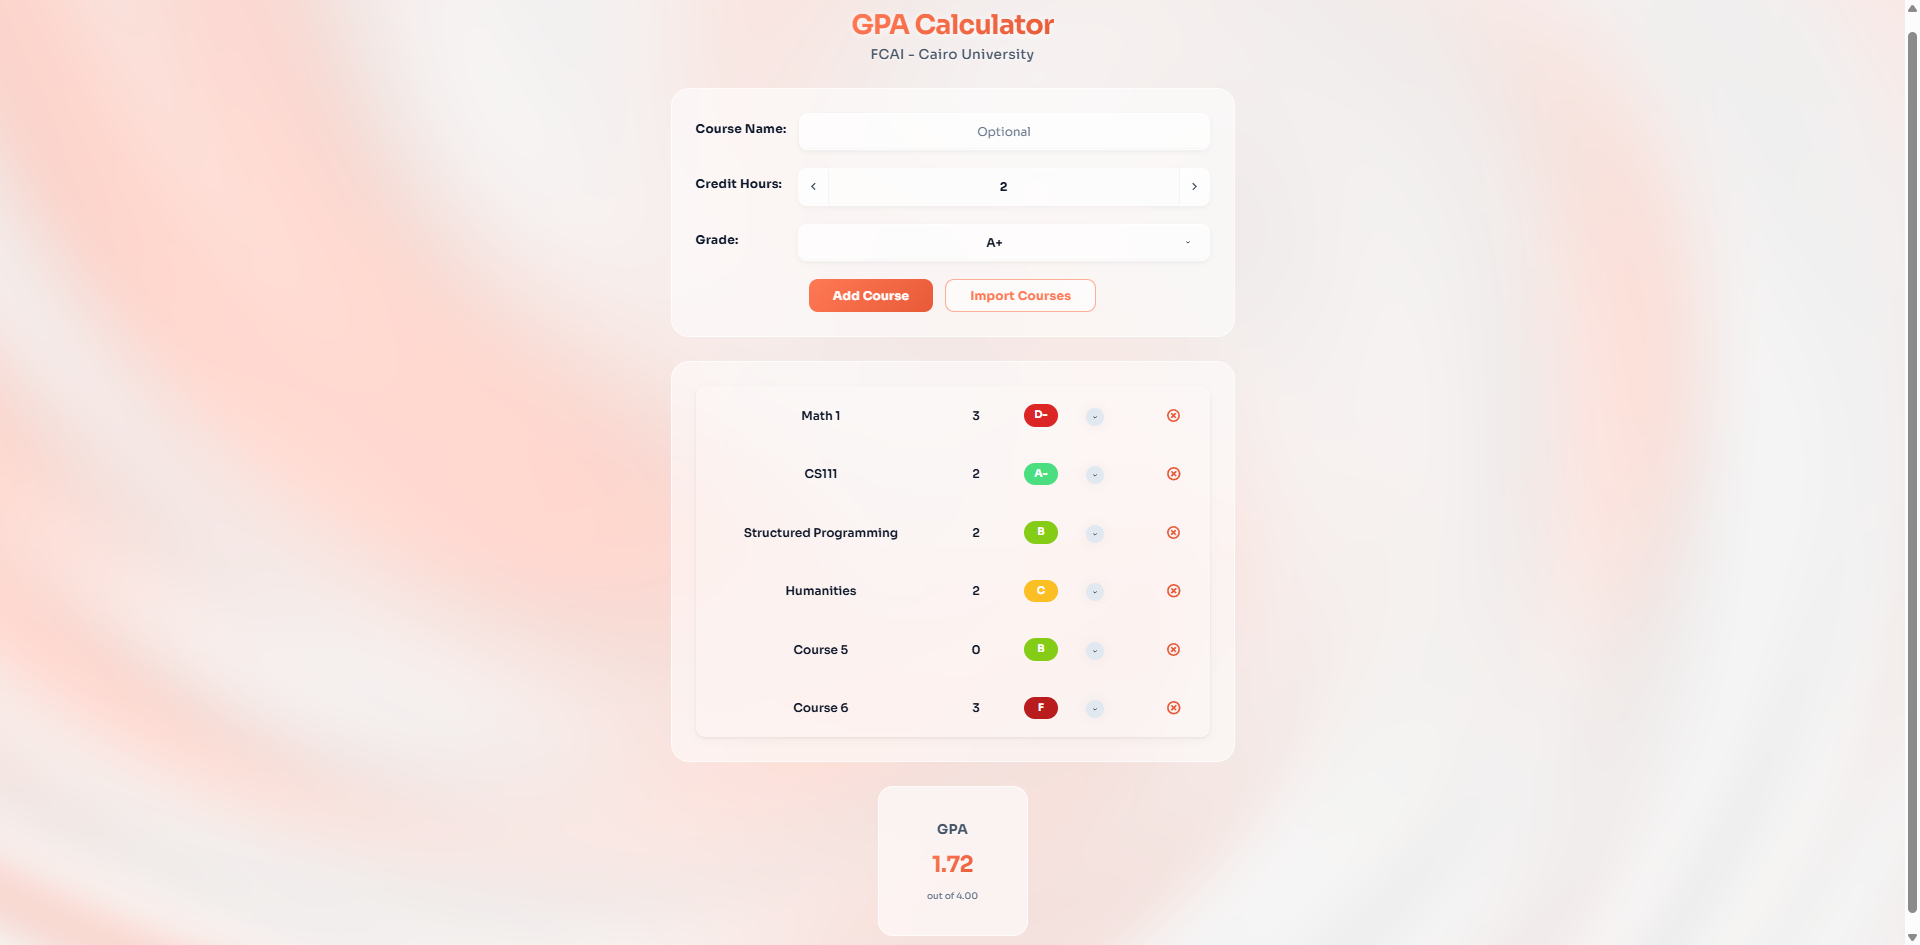
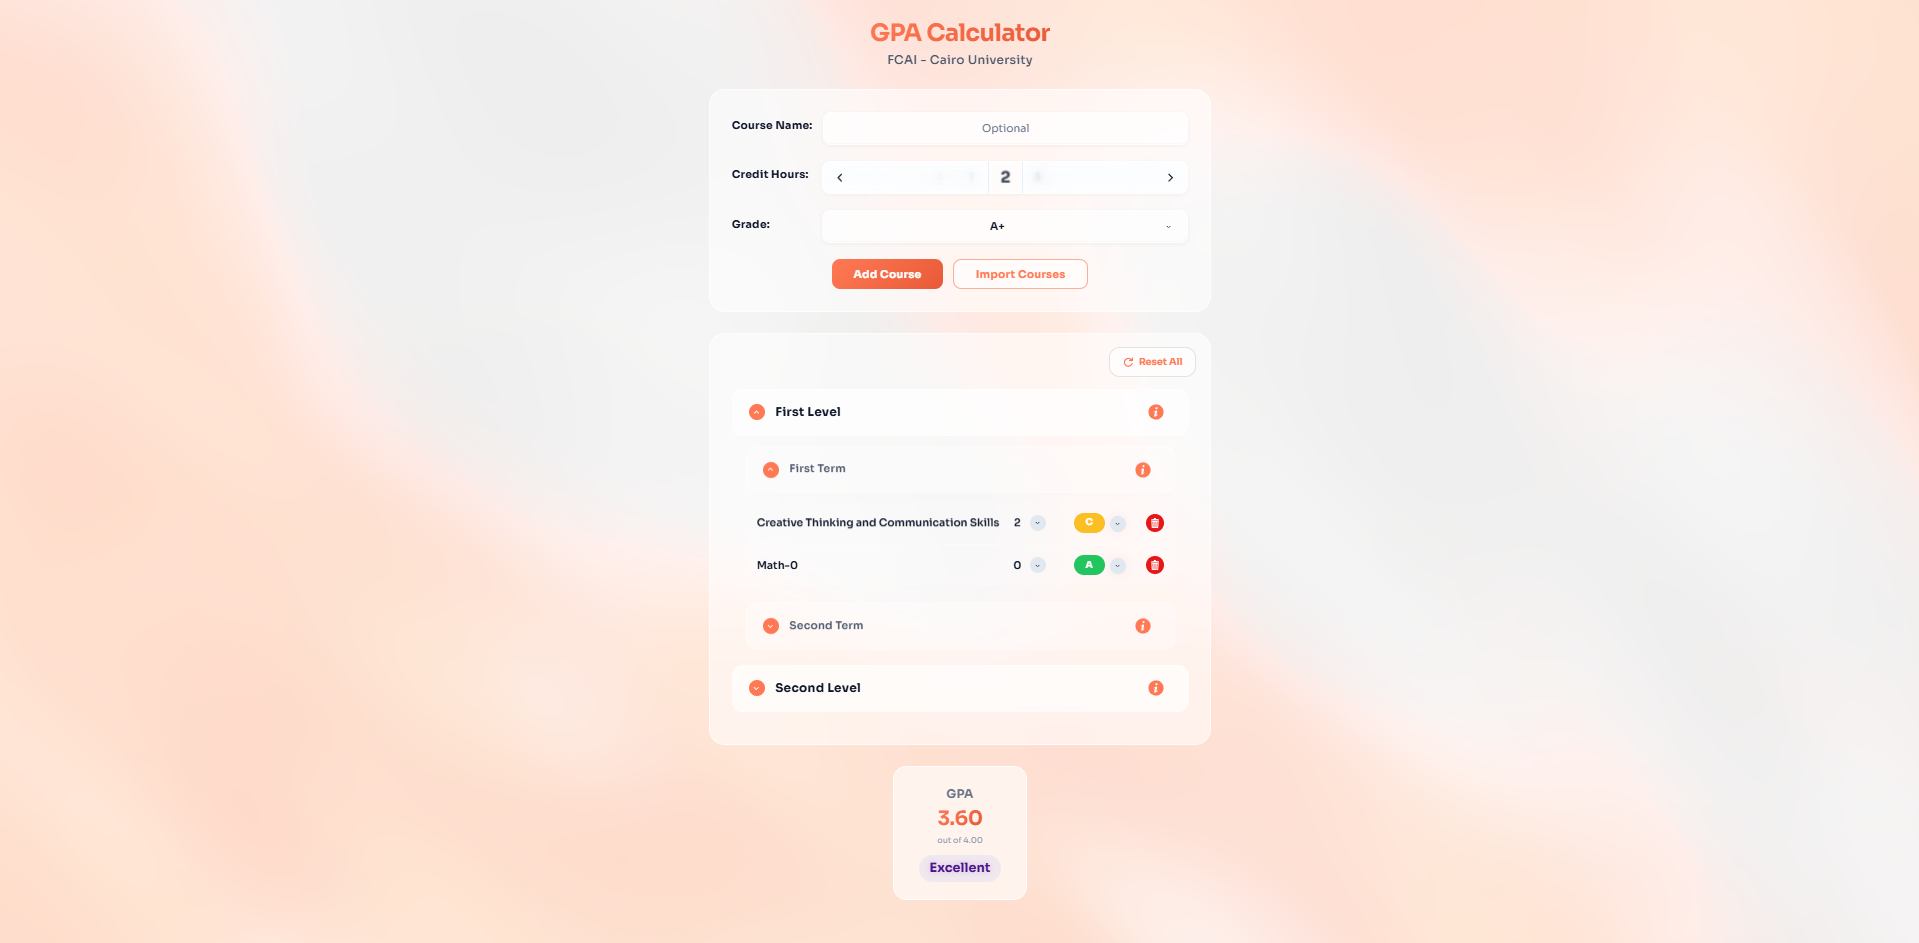
feat: Update screenshot to reflect recent UI enhancements and features

diff --git a/README.md b/README.md
@@ -9,14 +9,18 @@ A modern, interactive GPA calculator web application designed specifically for F
 
 - **Intuitive Course Management**: Add, edit, and remove courses with ease
 - **Grade Selection**: Choose from standard letter grades (A+ to F)
-- **Credit Hour Selection**: Specify credit hours for each course (0-3)
+- **Enhanced Credit Hour Selection**: Interactive rotating number input for credit hours (0-3)
 - **Real-time GPA Calculation**: Instantly see your GPA update as you modify courses
+- **Visual Grade Assessment**: Color-coded grade indicators with descriptive assessments
 - **Course Import**: Import your registered courses directly from the university portal
 - **Course Grouping**: Imported courses are automatically grouped by term and level
+- **Group Statistics**: View detailed stats for each course group (GPA, credits, pass/fail metrics)
 - **Collapsible Groups**: Expand/collapse course groups with saved state
-- **Local Storage**: Your courses are saved in your browser for future visits
-- **Modern UI**: Clean, responsive design with animated interactions
-- **Dynamic Background**: Subtle animated background using Three.js
+- **Local Storage**: Your courses and group states saved in your browser for future visits
+- **Modern Glassmorphism UI**: Clean, responsive design with animated interactions and blur effects
+- **Dynamic Background**: Subtle animated background using Three.js with custom GLSL shaders
+- **Confirmation Dialogs**: Prevent accidental data loss with confirmation modals
+- **Mobile Optimization**: Responsive design works on all device sizes with specialized mobile fixes
 
 ## Live Demo
 
@@ -36,8 +40,14 @@ You can try the calculator at: [http://zokm.me/gpa/](http://zokm.me/gpa/)
 1. Click the "Import Courses" button
 2. Go to the [FCAI Course Registration Portal](http://newecom.fci.cu.edu.eg/#/courses-per-students)
 3. Copy the HTML content of your registered courses page (instructions below)
-4. Paste it into the import dialog
+4. Paste it into the import dialog (one-click paste button available)
 5. Click "Import Courses"
+
+The application will automatically:
+- Extract course names, credit hours, and grades
+- Organize courses by level and term
+- Handle duplicate courses intelligently
+- Preserve your existing course data
 
 #### How to Copy HTML Content
 
@@ -82,37 +92,54 @@ For Android users, the easiest method is to use Chrome and request the desktop s
 
 ### Managing Courses
 
-- Change a course's grade by clicking the grade indicator
-- Remove a course by clicking the X button
-- Your GPA is automatically calculated based on your courses
+- Change a course's grade by clicking the grade indicator/badge
+- Update credit hours by clicking the credit hours value
+- Remove a course by clicking the delete button
+- View detailed statistics by clicking on group headers
+- Expand/collapse course groups by clicking the arrow indicators
+- Clear all courses with confirmation dialog (Reset All)
+- Your GPA is automatically calculated and updated in real-time with visual assessment indicators (Good, Excellent, etc.)
 
 ## Technical Overview
 
 This application is built using modern web technologies:
 
 - **React**: Front-end library for building the user interface
-- **TypeScript**: For type-safe code
-- **Vite**: Build tool and development server
-- **Three.js**: 3D graphics for the background animation
-- **Local Storage API**: For persisting data between sessions
+- **TypeScript**: For type-safe code with interfaces and type definitions
+- **Vite**: Fast build tool and development server
+- **Three.js**: 3D graphics for the dynamic background animation with GLSL shaders
+- **React Portals**: For properly positioned dropdowns and modals
+- **CSS Variables**: For consistent design system and theming
+- **Local Storage API**: For persisting courses and UI state between sessions
+- **Responsive Design**: Mobile-first approach with device-specific optimizations
+- **Glassmorphism UI**: Modern UI with backdrop filters and transparency effects
 
 ## Project Structure
 
 ```
 src/
-├── components/           # React components
-│   ├── CourseForm.tsx    # Form for adding courses
-│   ├── CourseTable.tsx   # Display of added courses
-│   ├── GPADisplay.tsx    # GPA visualization
-│   ├── GradeDropdown.tsx # Grade selection dropdown
-│   ├── ImportModal.tsx   # Course import functionality
-│   └── ThreeJSBackground.tsx # Animated background
+├── components/                      # React components
+│   ├── ConfirmationModal.tsx        # Reusable confirmation dialog component
+│   ├── CourseForm.tsx               # Form for adding courses
+│   ├── CreditHoursDropdown.tsx      # Interactive credit hours selector
+│   ├── EnhancedRotatingNumberInput.tsx # Animated number input component
+│   ├── GPADisplay.tsx               # GPA visualization with assessment
+│   ├── GradeDropdown.tsx            # Enhanced grade selection dropdown
+│   ├── GroupedCourseTable.tsx       # Hierarchical course table with grouping
+│   ├── ImportModal.tsx              # Course import functionality
+│   ├── RotatingNumberInput.tsx      # Base component for number selection
+│   ├── StatsModal.tsx               # Statistics display for course groups
+│   └── ThreeJSBackground.tsx        # Animated background with GLSL shaders
 ├── types/
-│   └── Course.ts         # TypeScript interfaces and types
+│   └── Course.ts                    # TypeScript interfaces and types
 ├── utils/
-│   └── gradeUtils.ts     # GPA calculation and grade utilities
-├── App.tsx               # Main application component
-└── main.tsx              # Application entry point
+│   ├── dropdownManager.ts           # Dropdown coordination utilities
+│   ├── gradeUtils.ts                # GPA calculation and grade utilities
+│   └── visibilityUtils.ts           # DOM visibility helpers
+├── App.tsx                          # Main application component
+├── index.css                        # Global styles and design system
+├── responsive-fixes.css             # Mobile-specific style adjustments
+└── main.tsx                         # Application entry point
 ```
 
 ## Detailed Component Functionality
@@ -123,6 +150,8 @@ The main component that:
 - Manages the application state (courses, modals)
 - Handles data persistence using local storage
 - Orchestrates the interactions between components
+- Provides save notifications for user actions
+- Manages clear/delete functionality with confirmations
 
 ### Course Management
 
@@ -130,22 +159,38 @@ The main component that:
 
 Handles course creation with:
 - Input validation for course details
-- Animated credit hour selection
-- Grade selection via dropdown
+- Enhanced rotating credit hour selection with animations
+- Grade selection via styled dropdown
+- Course name autogeneration for empty fields
 
-#### `CourseTable.tsx`
+#### `GroupedCourseTable.tsx`
 
-Displays added courses with:
+Displays courses in a hierarchical structure with:
+- Automatic grouping by level and term
+- Collapsible groups with persistent state
+- Group statistics with GPA and credit metrics
 - Color-coded grade badges
-- Inline grade editing
+- Inline grade and credit hour editing
 - Course removal functionality
+- Empty state handling
 
 #### `ImportModal.tsx`
 
 Provides functionality to:
 - Import courses in bulk from the university portal
 - Parse HTML content to extract course information
+- Clipboard paste integration
+- Smart duplicate handling
 - Validate imported data before adding to the course list
+- Show modal with fade animations
+
+#### `ConfirmationModal.tsx`
+
+A reusable confirmation dialog that:
+- Prevents accidental data loss with user confirmation
+- Supports danger mode for critical actions
+- Uses React Portal for proper DOM positioning
+- Includes animations and keyboard interactions
 
 ### GPA Calculation (`gradeUtils.ts`)
 
@@ -195,22 +240,84 @@ export function calculateGPA(courses: Course[]): number {
 }
 ```
 
+### Utilities & Helpers
+
+#### `dropdownManager.ts`
+
+Singleton utility that:
+- Manages active dropdown state across the application
+- Prevents multiple dropdowns from being open simultaneously
+- Coordinates dropdown opening and closing
+- Handles outside click detection
+
+#### `gradeUtils.ts`
+
+Core grade calculation utilities:
+- Converts letter grades to GPA points
+- Calculates GPA from course arrays
+- Generates color schemes for grade display
+- Provides helper functions for grade manipulation
+
+#### `visibilityUtils.ts`
+
+DOM visibility helpers that:
+- Track element visibility in viewport
+- Handle scroll position calculations
+- Support modal positioning and interactions
+
 ### UI Enhancements
 
-#### `GradeDropdown.tsx`
+#### `GradeDropdown.tsx` & `CreditHoursDropdown.tsx`
 
-A sophisticated dropdown component that:
-- Uses React portals for proper stacking context
-- Includes color-coded grade options
-- Adjusts position automatically to stay within viewport
-- Prevents table row hover effects during interaction
+Sophisticated dropdown components that:
+- Use React portals for proper stacking context
+- Include color-coded grade options
+- Adjust position automatically to stay within viewport
+- Prevent table row hover effects during interaction
+- Coordinate with the dropdown manager to avoid conflicts
+
+#### `EnhancedRotatingNumberInput.tsx`
+
+An intuitive input component for selecting numeric values:
+- Interactive left/right controls
+- Smooth sliding animations between values
+- Boundary limits with shake animations
+- Accessibility features for keyboard navigation
+- Mobile optimization with touch-friendly controls
+
+#### `StatsModal.tsx`
+
+Detailed statistics visualization for course groups:
+- Summarizes course performance metrics
+- Calculates GPA for specific course groups
+- Displays credit hour distribution
+- Shows passed/failed credit metrics
+- Lists all courses in the group with details
+- Includes scroll indicators for large lists
+
+#### `GPADisplay.tsx`
+
+Enhanced GPA visualization:
+- Color-coded assessment based on GPA value:
+  - Excellent (3.5-4.0): Purple
+  - Very Good (3.0-3.5): Blue 
+  - Good (2.5-3.0): Green
+  - Acceptable (2.0-2.5): Gold
+  - Poor (1.0-2.0): Orange
+  - Very Poor (0-1.0): Red
+- Dynamic text that reflects academic standing
+- Visual hierarchy with typography scale
+- Glassmorphism effect for modern UI
+- Responsive layout for all device sizes
 
 #### `ThreeJSBackground.tsx`
 
 Creates an engaging background using Three.js:
 - GLSL shaders for smooth color transitions
+- Customizable uniforms for visual effects
 - Responsive canvas that adjusts to window size
-- Optimized performance with minimal rendering
+- Optimized performance with render loop management
+- Multiple meshes with varying visual properties
 
 ## Development
 
@@ -257,10 +364,34 @@ The GitHub Actions workflow will automatically build and deploy the application.
 ## Technical Specifications
 
 - **Grading System**: Based on FCAI - Cairo University's 4.0 scale ([Faculty Bylaw PDF](docs/newBylaw_2024.pdf)) (Refer to page 11)
+- **Course Structure**: 
+  - Total Credit Hours for Bachelor's Degree: 135 hours
+  - Course categorization by level and term
+  - Support for custom course naming and credit hour allocation
 - **Browser Support**: Modern browsers with localStorage and ES6+ support
-- **Responsive Design**: Works on devices from mobile phones to desktops
-- **Accessibility**: Keyboard navigation and screen reader support
-- **Performance**: Optimized animations and rendering for smooth experience
+- **Responsive Design**: Works on devices from mobile phones to desktops with optimized layouts
+- **Mobile Optimization**: Special handling for touch interfaces and smaller screens
+- **Accessibility**:
+  - Keyboard navigation and focus management
+  - Reduced motion support via media queries
+  - High contrast mode compatibility
+  - Sufficient color contrast for text readability
+  - Visible focus indicators for keyboard users
+  - Semantic HTML structure
+- **Performance**:
+  - Optimized animations with hardware acceleration
+  - React memo and useCallback for rendering optimization
+  - Efficient DOM updates with React
+  - Lazy loading for modal components
+- **Design System**:
+  - Consistent CSS variables for theming
+  - Responsive spacing and typography scales
+  - Glassmorphism effects with backdrop filters
+  - Fluid animations with cubic-bezier easing
+- **Browser Storage**:
+  - Courses data persisted in localStorage
+  - UI state preservation between sessions
+  - Error handling for storage access
 
 ## Contributions
 
